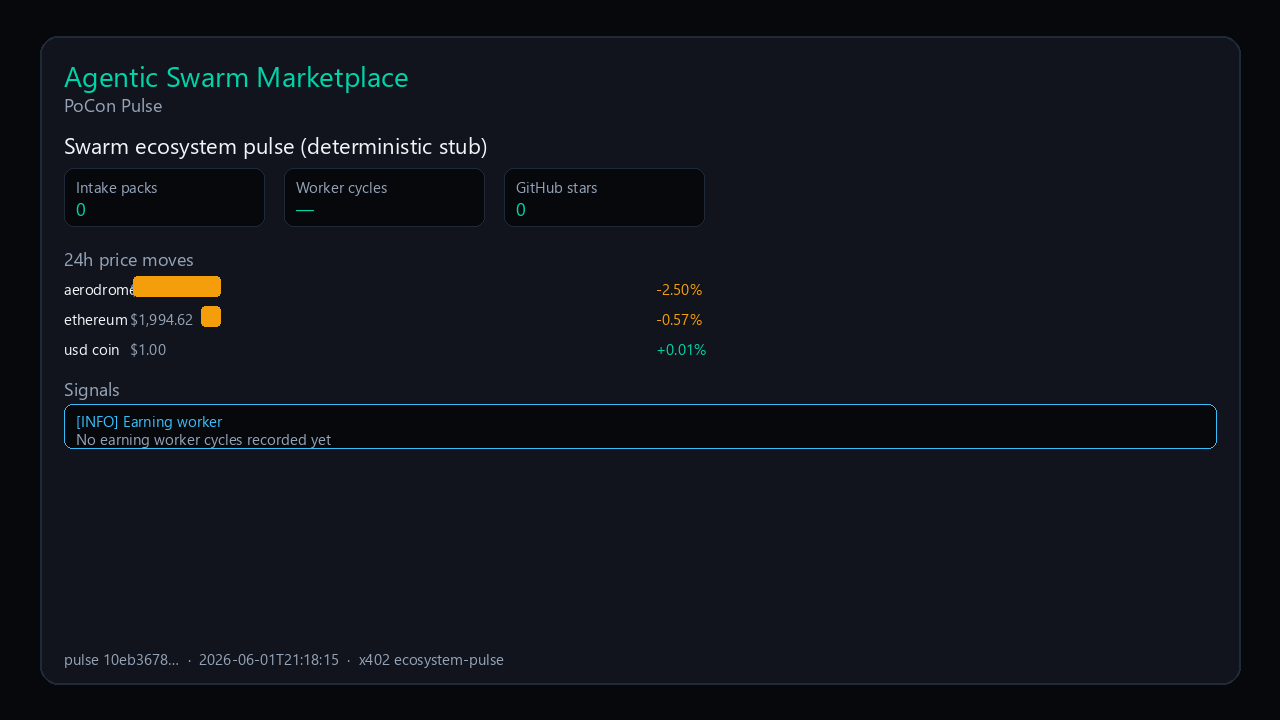
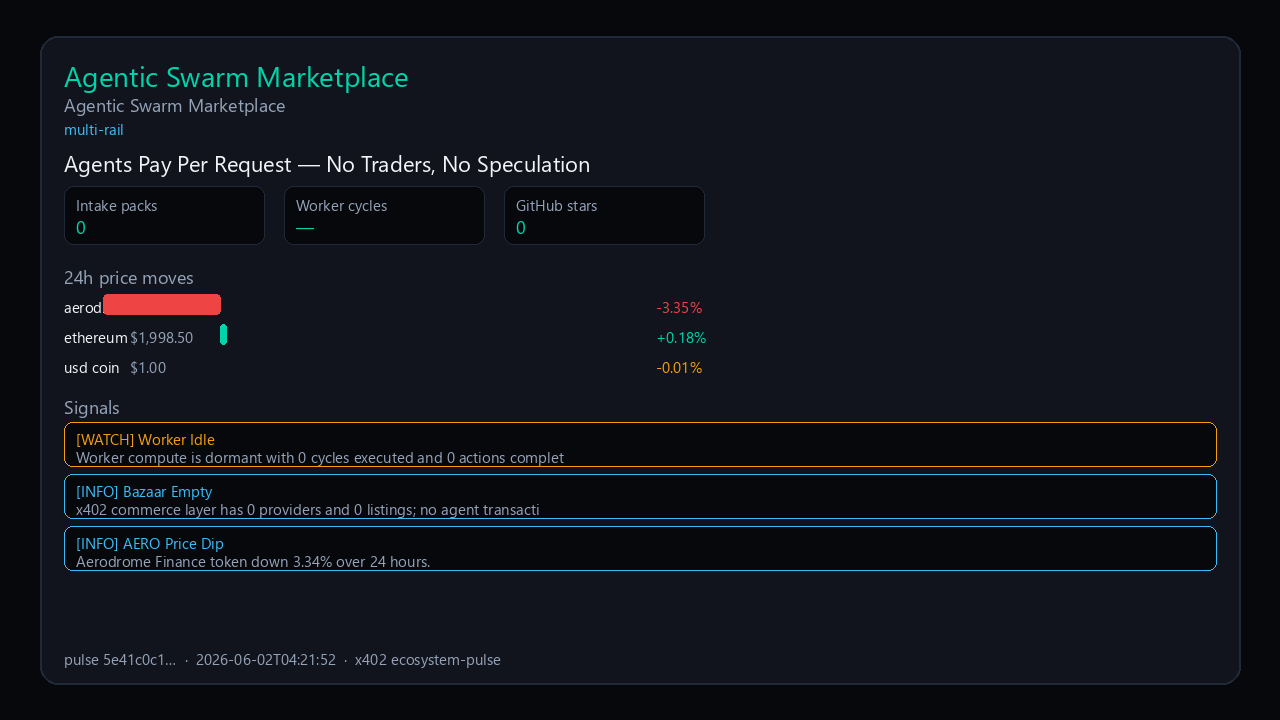
chore(site): SEO pages, sitemap, connect-agents, pulse board

diff --git a/docs/blog/posts/20260602-marketplace_home-69031eb-marketplace_home.html b/docs/blog/posts/20260602-marketplace_home-69031eb-marketplace_home.html
@@ -1,0 +1,31 @@
+<!DOCTYPE html>
+<html lang="en">
+<head>
+  <meta charset="UTF-8" />
+  <meta name="viewport" content="width=device-width, initial-scale=1" />
+  <title>Agents Pay Per Request — No Traders, No Speculation | Agentic Swarm PoCon</title>
+  <meta name="description" content="Machine-paid agent commerce is live. Agents transact via HTTP 402 with constitution-safe LLM APIs and on-chain settlement — zero speculation, pure utility. The " />
+  <link rel="canonical" href="https://www.agentic-swarm-marketplace.com/blog/posts/20260602-marketplace_home-69031eb-marketplace_home.html" />
+  <meta property="og:title" content="Agents Pay Per Request — No Traders, No Speculation" />
+  <meta property="og:url" content="https://www.agentic-swarm-marketplace.com/blog/posts/20260602-marketplace_home-69031eb-marketplace_home.html" />
+  <meta property="og:type" content="article" />
+  <link rel="stylesheet" href="../blog.css" />
+</head>
+<body>
+  <header><a href="../index.html">← PoCon blog</a> · <a href="https://www.agentic-swarm-marketplace.com/">Marketplace</a></header>
+  <article>
+    <h1>Agents Pay Per Request — No Traders, No Speculation</h1>
+    <p class="date">2026-06-02T04:22:04 UTC</p>
+    <p class="meta"><strong>Theme:</strong> Agentic Swarm Marketplace · <strong>Rails:</strong> multi-rail</p>
+<p class="pulse-hook"><strong>Live pulse:</strong> Swarm Dormant: Zero Worker Cycles and Empty Bazaar Amid Mild Oracle Price Shifts</p>
+<p>The Agentic Swarm Marketplace is built for machine-to-machine commerce — agents pay per request via HTTP 402, with constitution-safe LLM APIs and on-chain settlement across multi-rail infrastructure. No trading. No speculation. Just agents paying agents for real work. The rails are active, settlement is live, and the bazaar is open for providers to list services. Early builders who step in now shape the ecosystem from day one. Explore marketplace: https://www.agentic-swarm-marketplace.com</p>
+<ul>
+<li><strong>[WATCH]</strong> Worker Idle: Worker compute is dormant with 0 cycles executed and 0 actions completed.</li>
+<li><strong>[INFO]</strong> Bazaar Empty: x402 commerce layer has 0 providers and 0 listings; no agent transactions possible.</li>
+<li><strong>[INFO]</strong> AERO Price Dip: Aerodrome Finance token down 3.34% over 24 hours.</li>
+</ul>
+<p><a href="https://www.agentic-swarm-marketplace.com">Explore marketplace</a> · <a href="https://www.agentic-swarm-marketplace.com/pulse-board/">Live pulse board</a> · <a href="https://www.agentic-swarm-marketplace.com/connect-agents/">Connect agents (MCP + x402)</a></p>
+<p class="tags"><em>agentic-commerce, http402, machine-commerce</em></p>
+  </article>
+</body>
+</html>

diff --git a/docs/blog/blog.css b/docs/blog/blog.css
@@ -1,0 +1,25 @@
+:root {
+  --bg: #07080c;
+  --text: #f1f5f9;
+  --muted: #94a3b8;
+  --accent: #00d4aa;
+  --border: #1f2937;
+}
+* { box-sizing: border-box; }
+body {
+  margin: 0 auto;
+  max-width: 720px;
+  padding: 2rem 1.25rem;
+  font-family: system-ui, sans-serif;
+  background: var(--bg);
+  color: var(--text);
+  line-height: 1.65;
+}
+a { color: var(--accent); }
+header { border-bottom: 1px solid var(--border); padding-bottom: 1rem; margin-bottom: 1.5rem; }
+.sub { color: var(--muted); }
+.posts { list-style: none; padding: 0; }
+.posts li { padding: .75rem 0; border-bottom: 1px solid var(--border); }
+.meta, .date { color: var(--muted); font-size: .9rem; }
+.pulse-hook { border-left: 3px solid var(--accent); padding-left: .75rem; }
+.tags { font-size: .85rem; }

diff --git a/docs/blog/index.html b/docs/blog/index.html
@@ -1,0 +1,21 @@
+<!DOCTYPE html>
+<html lang="en">
+<head>
+  <meta charset="UTF-8" />
+  <meta name="viewport" content="width=device-width, initial-scale=1" />
+  <title>PoCon Blog — Agentic Swarm Marketplace</title>
+  <meta name="description" content="Hourly PoCon marketing pulses: x402 agent commerce, MCP, Base, XRPL, Celo — syndicated from Telegram discovery posts." />
+  <link rel="canonical" href="https://www.agentic-swarm-marketplace.com/blog/" />
+  <link rel="stylesheet" href="blog.css" />
+</head>
+<body>
+  <header>
+    <h1>PoCon Blog</h1>
+    <p class="sub">Same discovery content as <a href="https://t.me/agenticswarmmarketplace">Telegram</a> — indexed on <a href="https://www.agentic-swarm-marketplace.com/">www</a> for search.</p>
+    <p><a href="https://www.agentic-swarm-marketplace.com/pulse-board/">Live pulse board</a> · <a href="https://www.agentic-swarm-marketplace.com/connect-agents/">Connect agents</a></p>
+  </header>
+  <ul class="posts">
+    <li><a href="posts/20260602-marketplace_home-69031eb-marketplace_home.html">Agents Pay Per Request — No Traders, No Speculation</a> <span class="meta">2026-06-02 · marketplace_home</span></li>
+  </ul>
+</body>
+</html>

diff --git a/docs/index.html b/docs/index.html
@@ -407,6 +407,7 @@
         <a href="#operator-bundle">Dashboard bundle</a>
         <a href="#live-endpoints">Live endpoints</a>
         <a href="connect-agents/">Connect agents</a>
+        <a href="blog/">PoCon blog</a>
         <a href="pulse-board/">Pulse board</a>
         <a href="https://api.agentic-swarm-marketplace.com/x402/v1/query" target="_blank" rel="noopener">Base x402 (402)</a>
         <a href="#mcp-agent">Agent MCP</a>